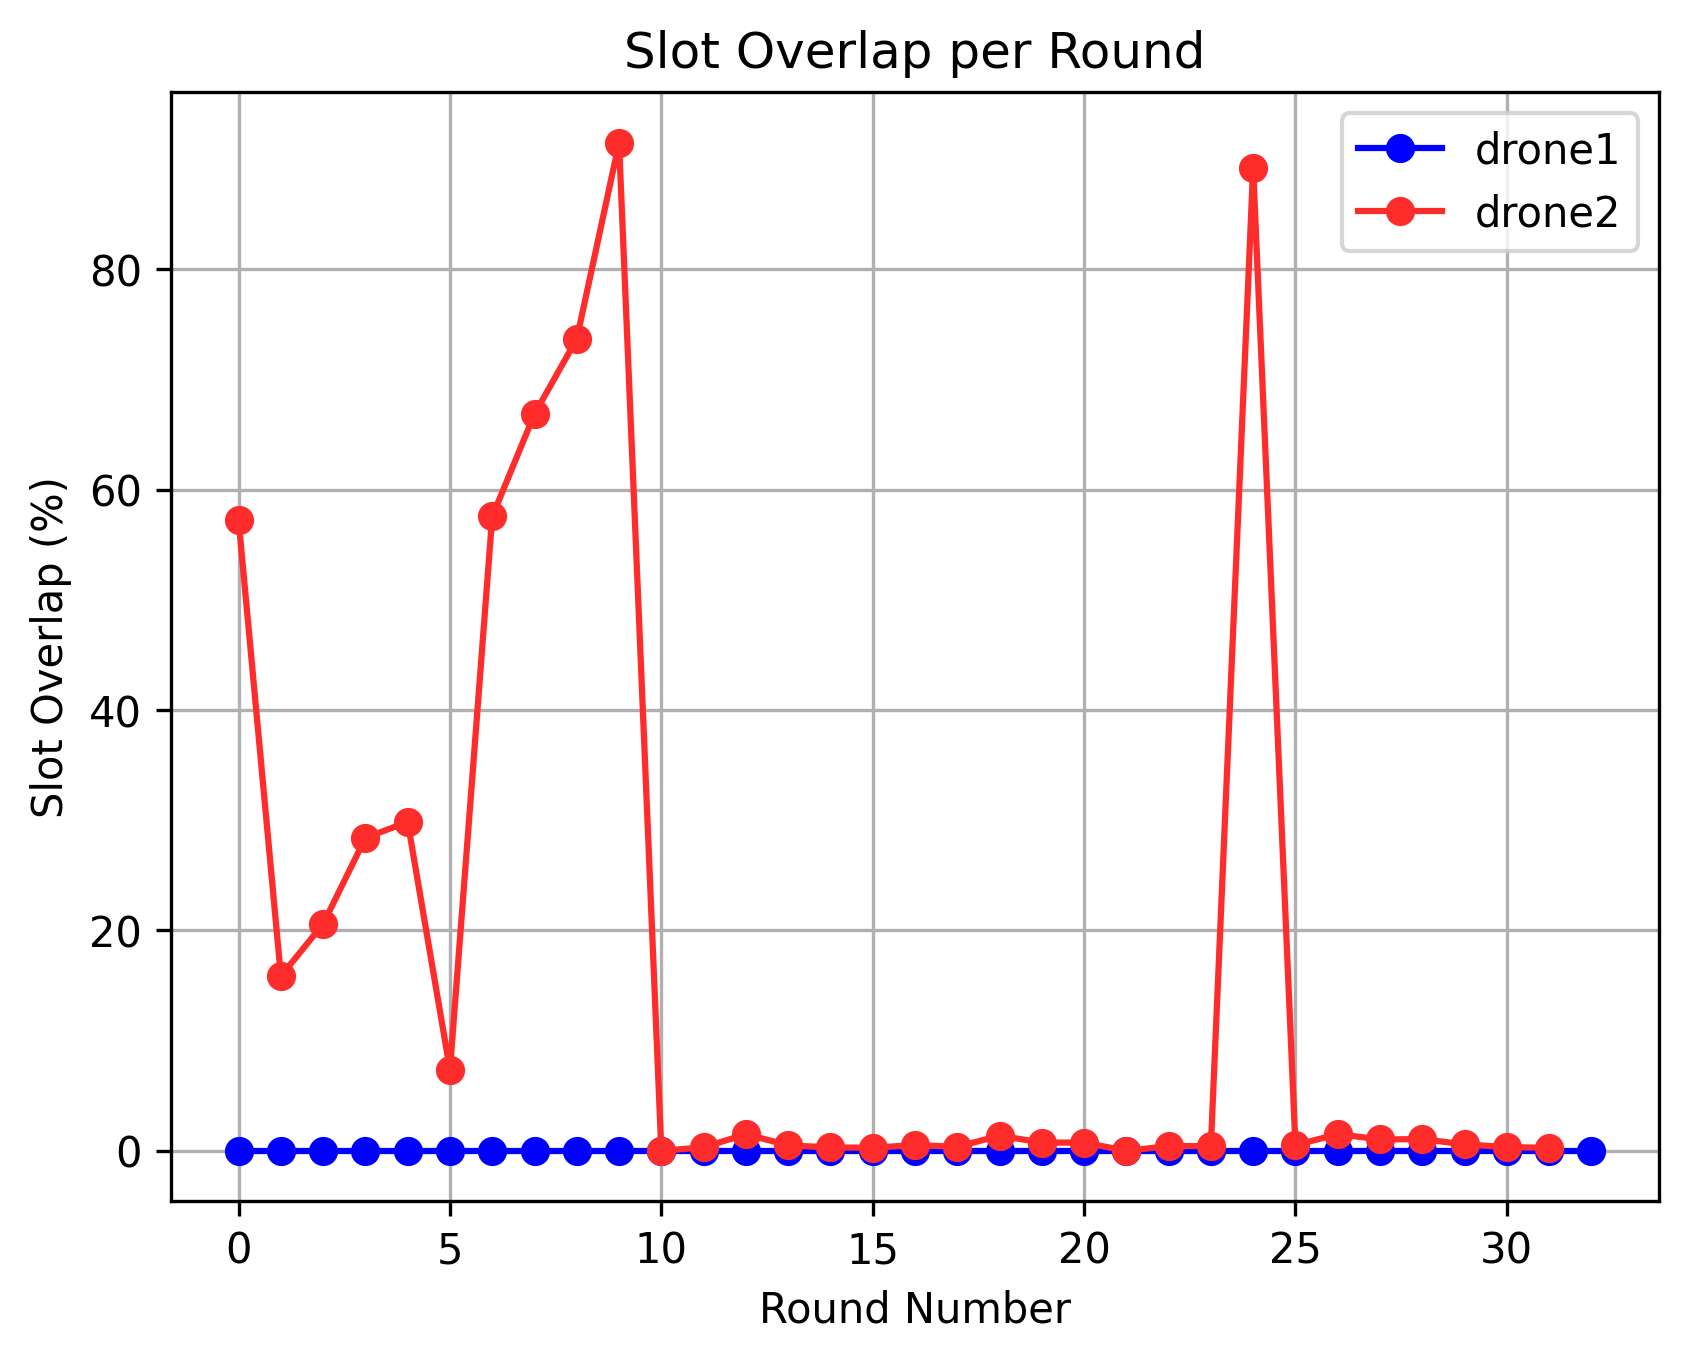
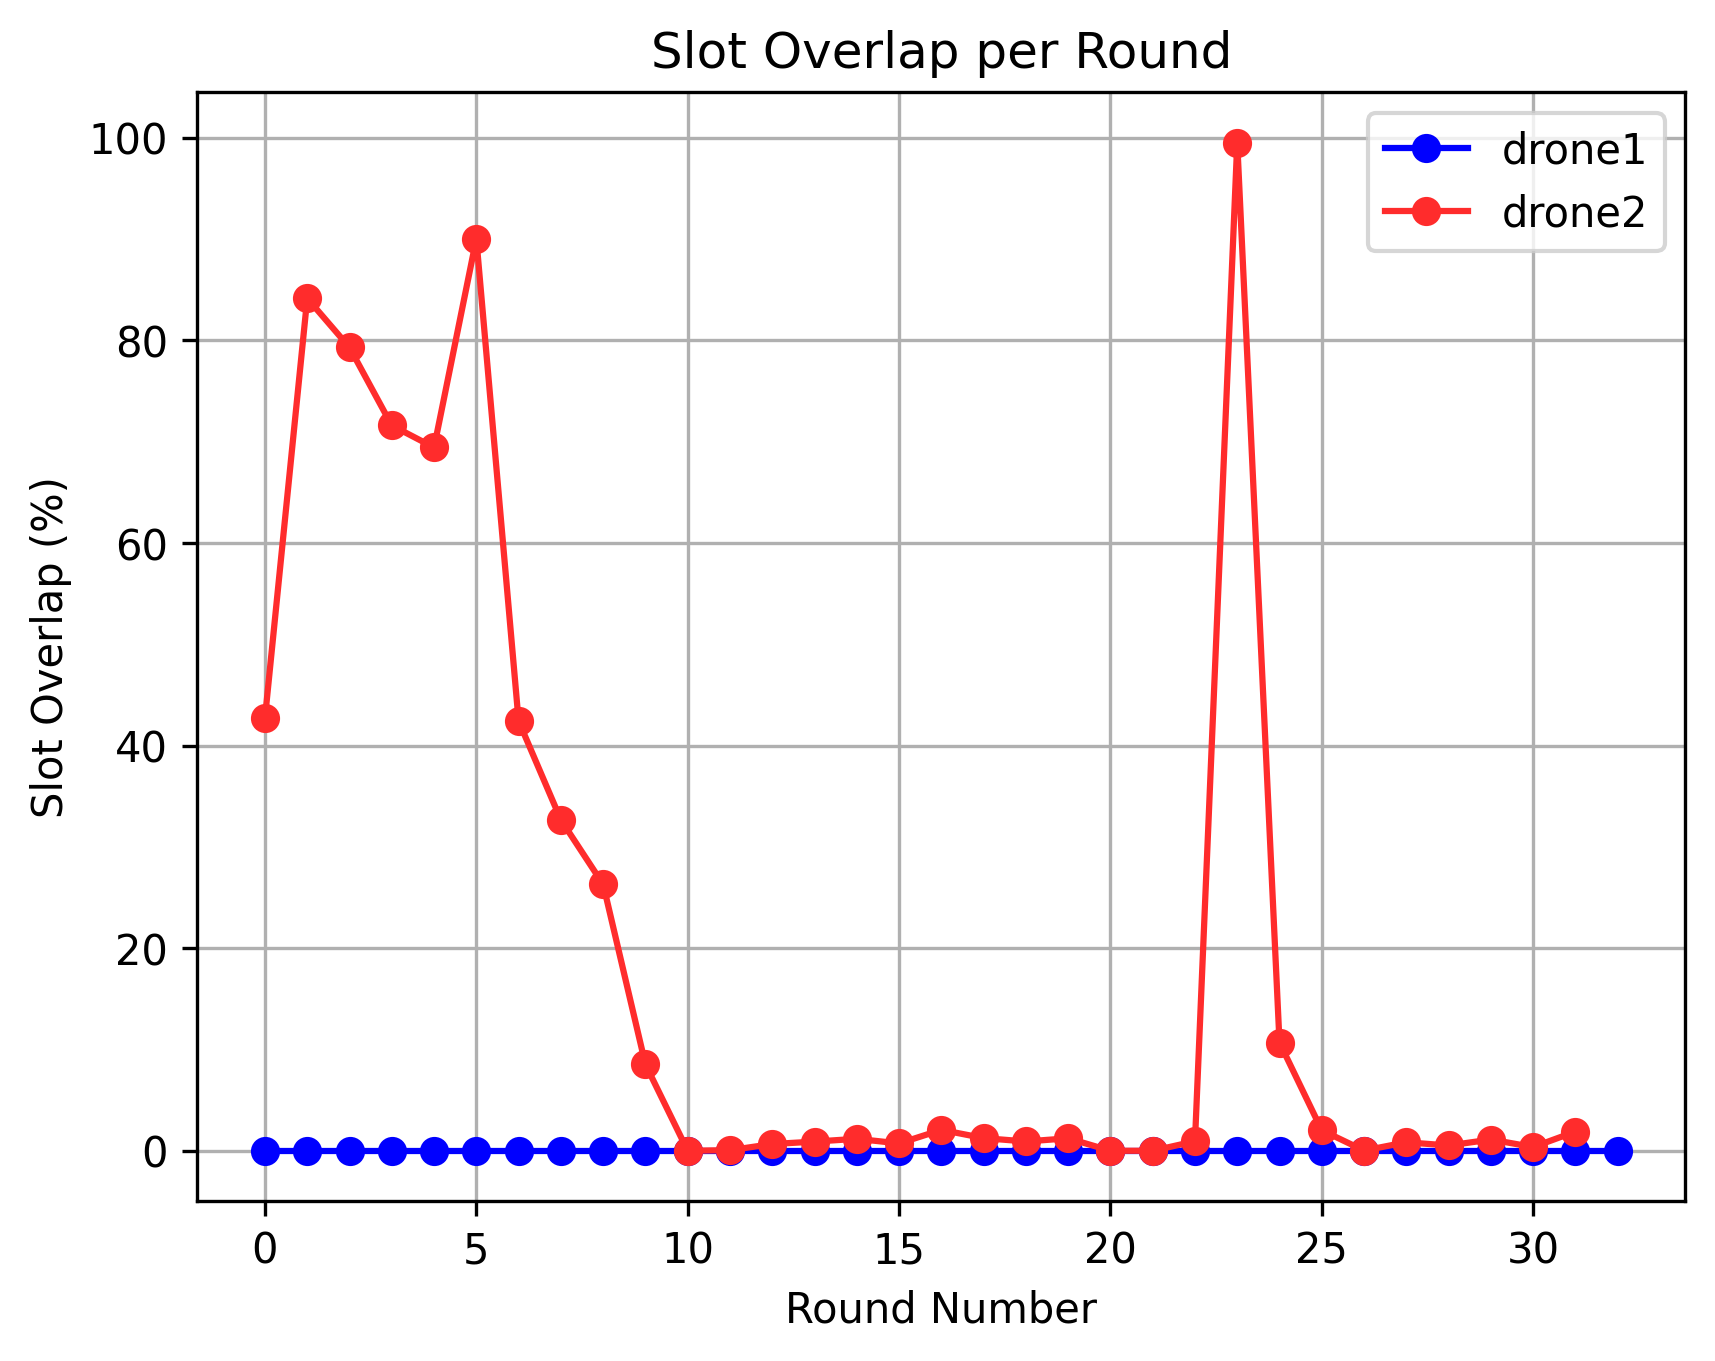
Fix wrong overlap calculation

diff --git a/docs/logs/generateReport.py b/docs/logs/generateReport.py
@@ -236,9 +236,10 @@ def get_overlapped_packets_percentage(packet_arrival_times, slot_start):
 
     if(len(packet_arrival_times) > 0):
         last_packet = packet_arrival_times[-1]
-        overlapped_delta = abs(last_packet - slot_start)
+        first_packet = packet_arrival_times[0]
+        overlapped_delta = abs(last_packet - first_packet)
         
-        overlapped_packets_percentage = (1 - (overlapped_delta / SLOT_LEN_MICRO)) * 100
+        overlapped_packets_percentage = (overlapped_delta / SLOT_LEN_MICRO) * 100
 
     return overlapped_packets_percentage
     
@@ -259,6 +260,7 @@ def build_overlap_chart(data):
 
             overlapped_packets = get_overlapped_packets_percentage(packet_arrival_times, slot_start)
             overlap_y.append(overlapped_packets)
+            #print(overlapped_packets, i)
 
         plt.plot(data[node_name]['overlap_x'], overlap_y, marker='o', linestyle='-', color=node_colors[int(node_name.split('drone')[1]) - 1], label = node_name)
 
